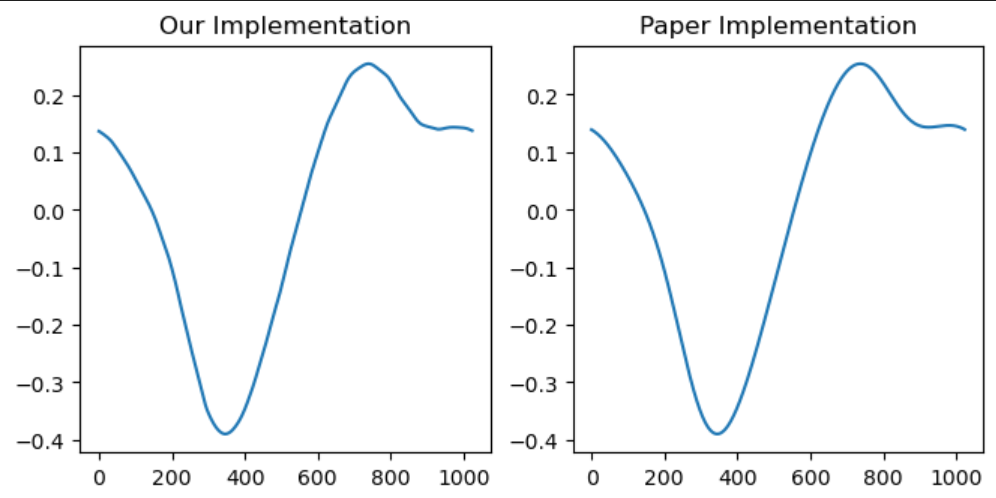
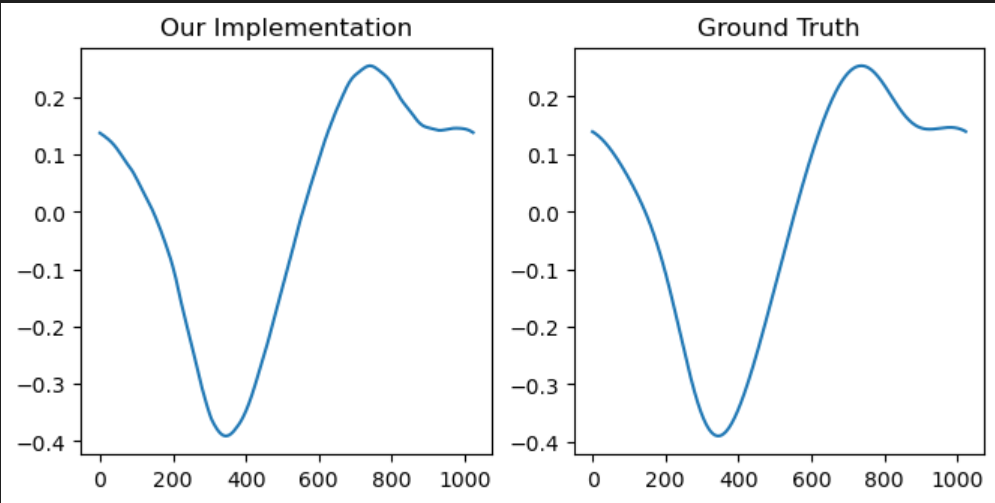
changed graph and updated README

diff --git a/README.md b/README.md
@@ -50,7 +50,7 @@ Here is the table comparing the result of our implementation to the paper.
 - The training process was relatively fast, even for s = 8192, which reiterates the power and efficiency of FNOs.
 - 
 To better visualize the result, we created this graph, which displays a very similar trend to the paper.
-![image](https://github.com/JJBai2003/FNO-DL-Final-Project/assets/60070699/9c2873e2-98b6-4817-908e-6ec6fb6a8bc6)
+![alt text](results\graph.png)
 We generated the graph on the left by calling our model on a set of data(x) and then plotting the output. The graph on the right is the ground truth y. 
 
 
